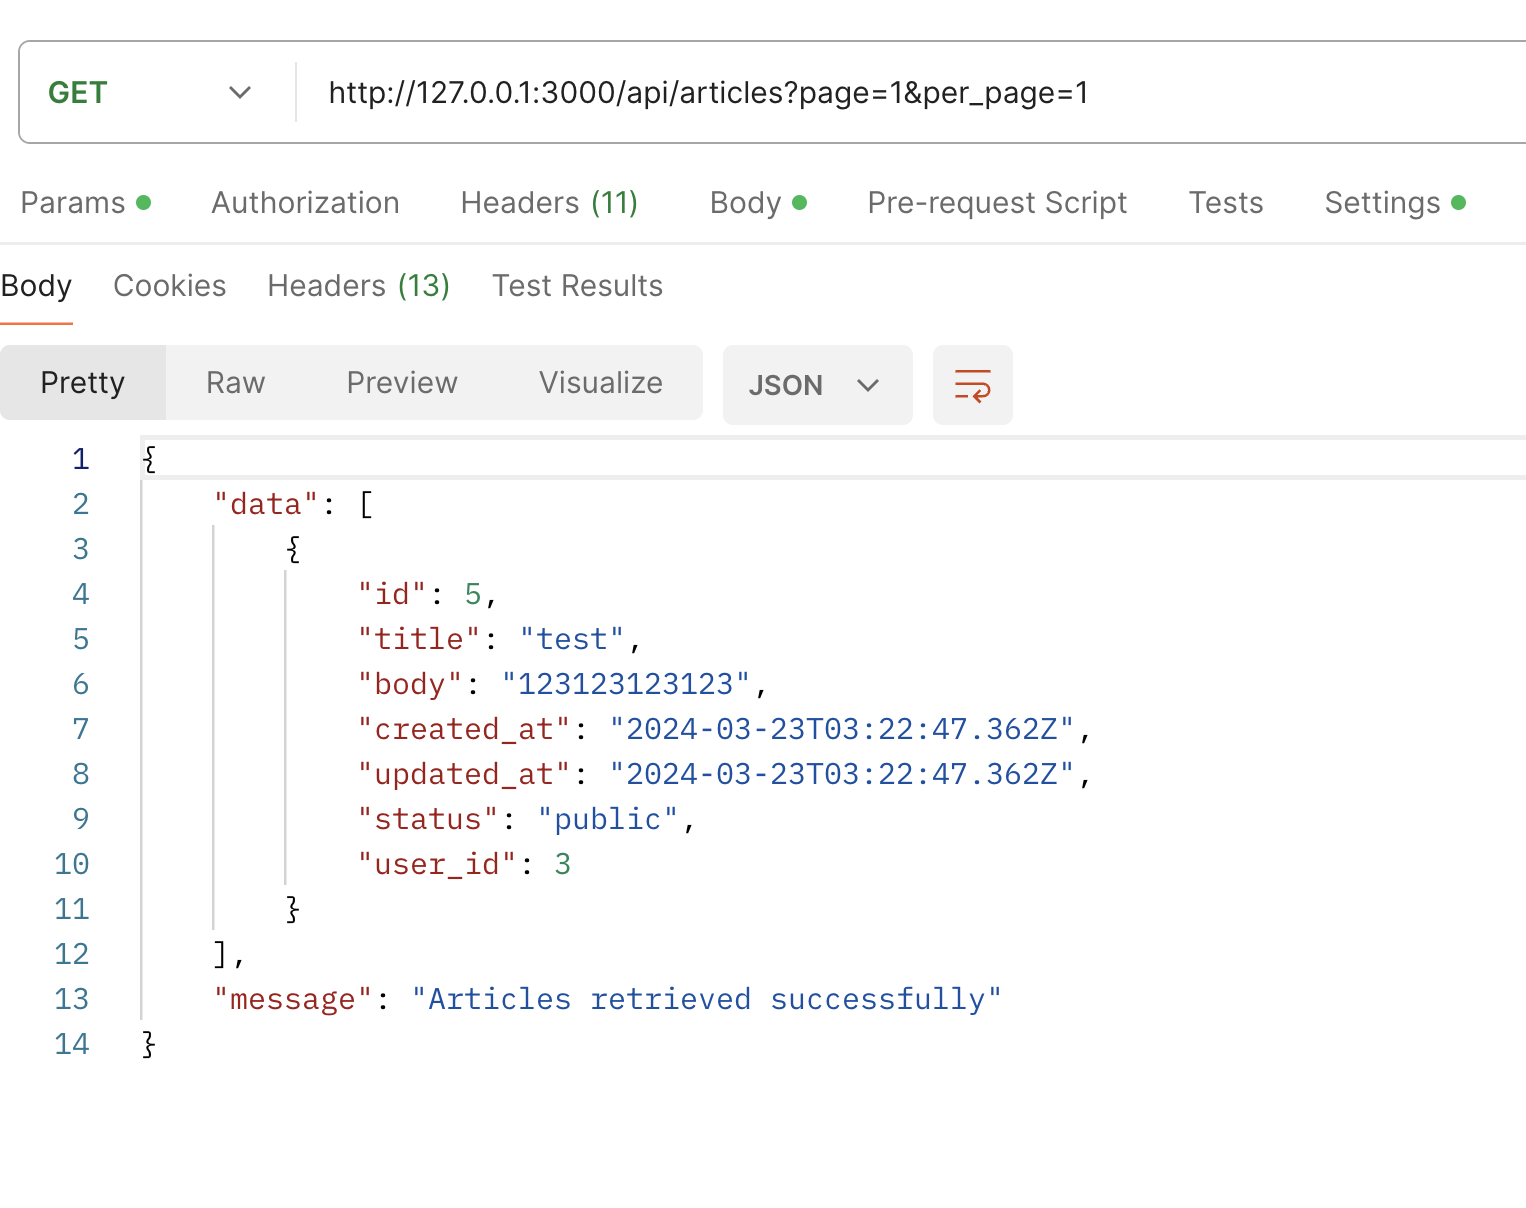
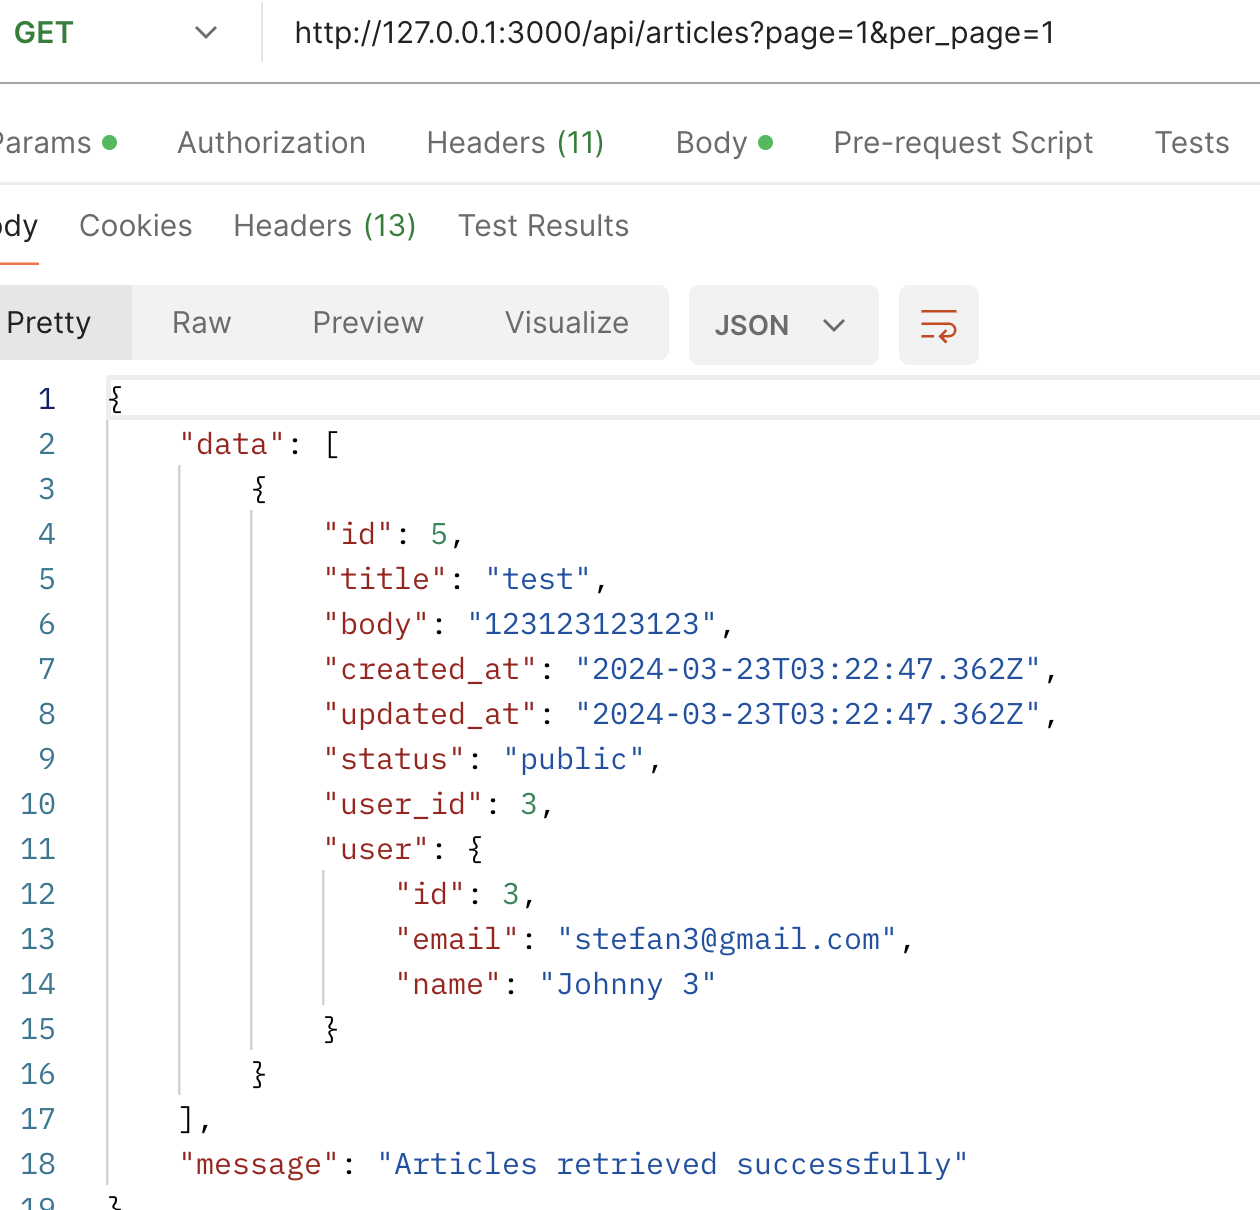
Added user object attach in json

diff --git a/app/controllers/api/articles_controller.rb b/app/controllers/api/articles_controller.rb
@@ -2,7 +2,7 @@ module Api
     class ArticlesController < ApplicationController
       def index
         @articles = Article.page(params[:page]).per(params[:per_page])
-        render json: { data: @articles, message: 'Articles retrieved successfully' }
+        render json: { data: @articles.as_json(include: { user: { only: [:id, :name, :email] } }), message: 'Articles retrieved successfully' }
       end
     end
   end
